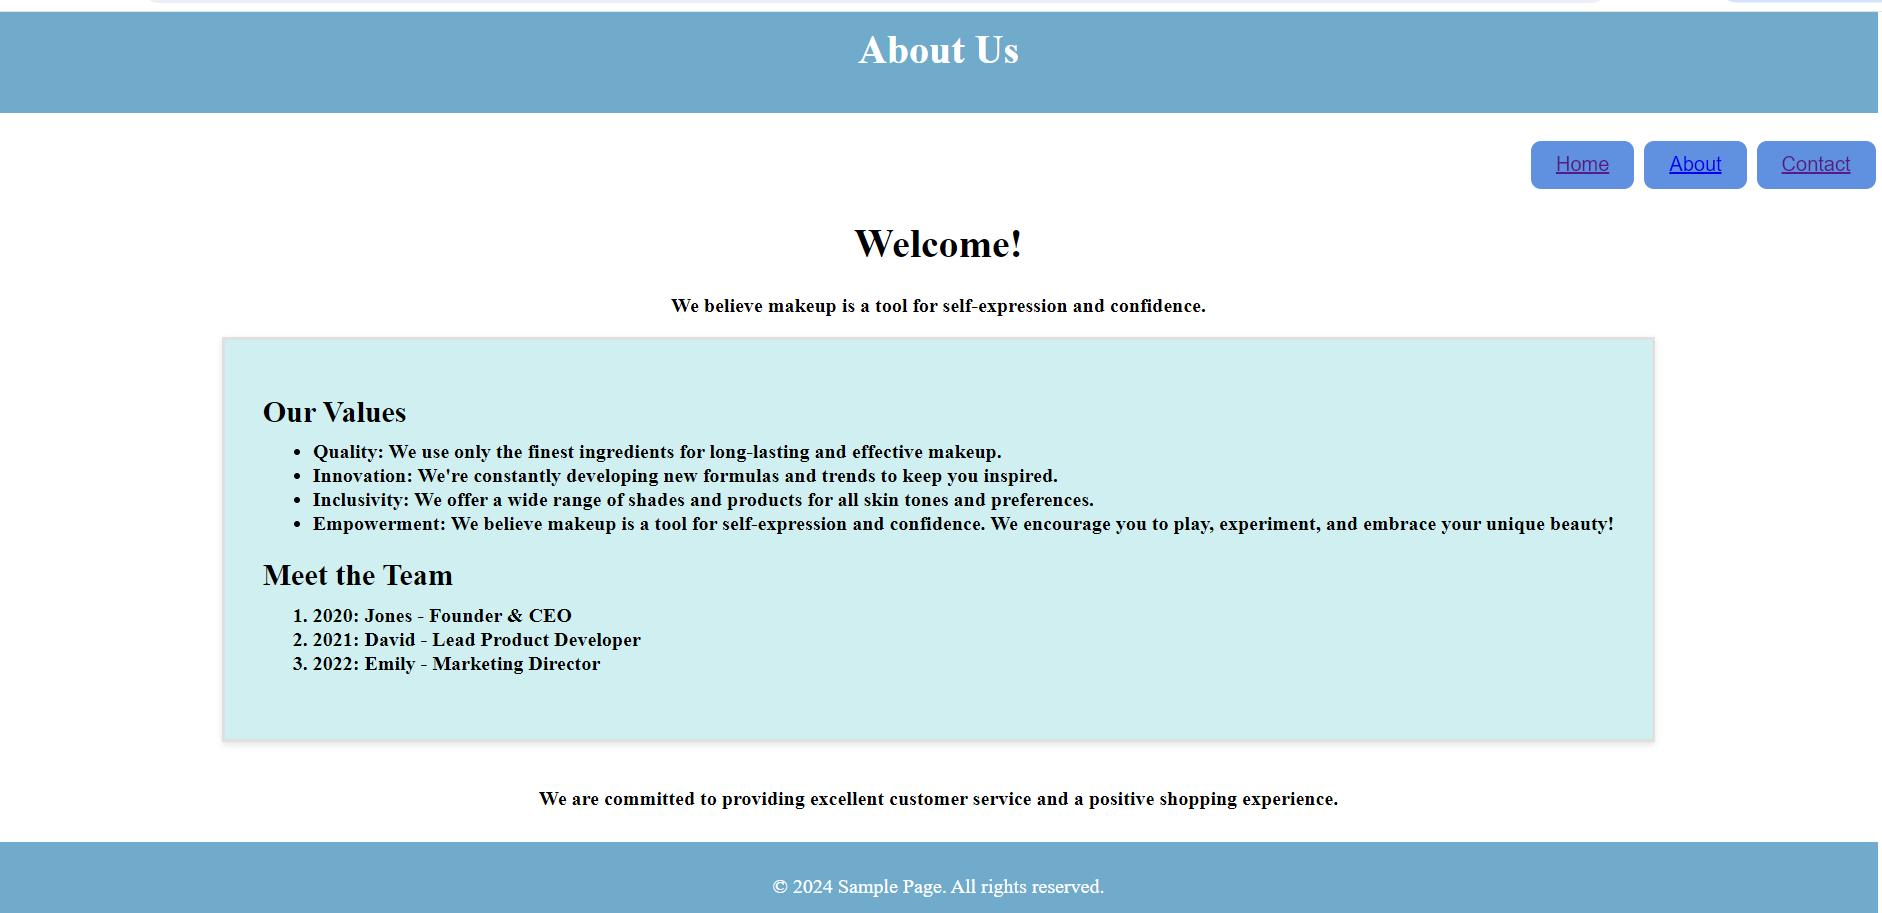
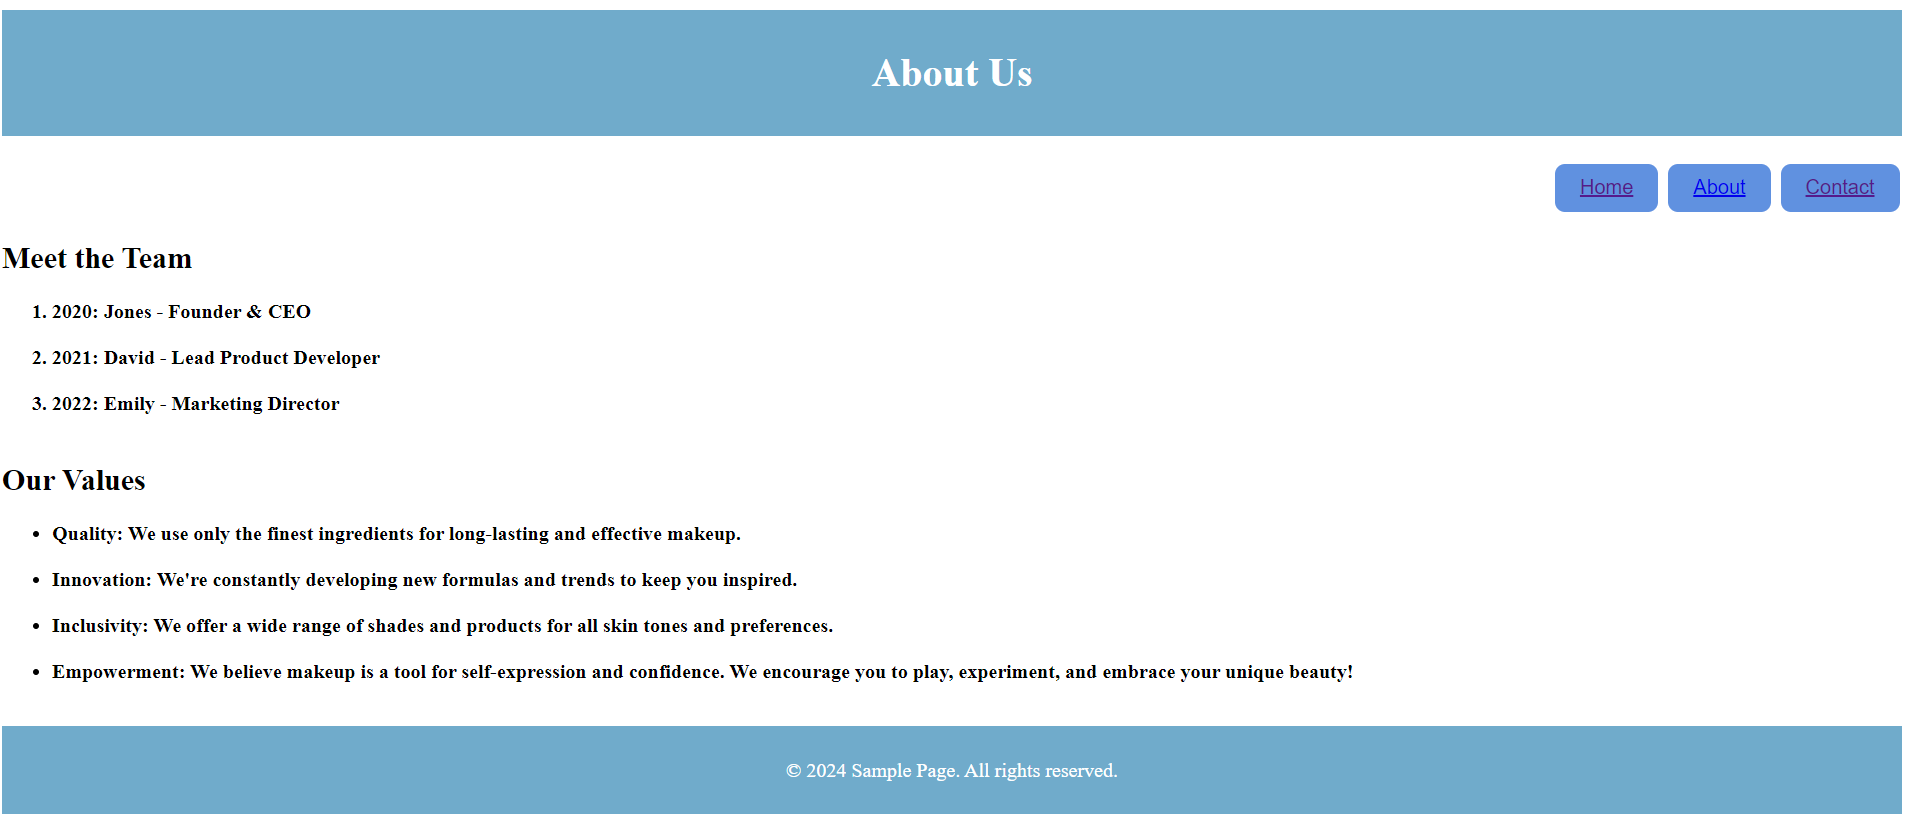
Add files via upload

diff --git a/Part A/about.html b/Part A/about.html
@@ -10,13 +10,10 @@
              margin-bottom: 10px;
              font-style: Arial, sans-serif;
              font-weight: bold;
-             text-align: center; 
+             text-align:justify; 
+             
         }
-        .main a{
-              text-align: justify; 
-              margin: 0 auto; 
-              width: 70%; 
-        }
+     
         header, footer  {
             background-color: #70abcb;
             color: #fff;
@@ -47,34 +44,7 @@
             text-align: right;
         }
 
-        .products {
-          display: flex;
-          flex-wrap: wrap;
-          gap: 20px;
-          justify-content: center;
-     
-          }
-
-         .product {
-          background-color: #cfeff1;
-          padding: 30px;
-          border-radius: 1px;
-           box-shadow: 0 2px 5px rgba(0, 0, 0, 0.1);
-           border: 3px solid #e0e0e0; /* Add a thin border */
-           line-height: 0.6;
-           font-weight: bold;
-           text-align: justify;
-          
-         }
-
-         .product h1 {
-          margin-bottom: 10px;
-         font-size: 18px; /* Adjust font size for product titles */
-          font-weight:bolder;
-          font-family:Arial, Helvetica, sans-serif;
-        }
-
-
+    
     </style>
 </head>
 <body>
@@ -91,27 +61,21 @@
     </nav>
 
     <main>
-        <p><h1>Welcome!</h1></p> 
-        <p>  We believe makeup is a tool for self-expression and confidence.</p>
-
-            <section class="products">
-              <div class="product">
-                <h2>Our Values</h2>
-                <ul>
-                    <li>Quality: We use only the finest ingredients for long-lasting and effective makeup.</li><br>
-                    <li>Innovation: We're constantly developing new formulas and trends to keep you inspired.</li><br>
-                    <li>Inclusivity: We offer a wide range of shades and products for all skin tones and preferences.</li><br>
-                    <li>Empowerment: We believe makeup is a tool for self-expression and confidence. We encourage you to play, experiment, and embrace your unique beauty!</li><br>
-                  </ul>
-               
               <h2>Meet the Team</h2>
               <ol>
                 <li>2020: Jones - Founder & CEO</li><br>
                 <li>2021: David - Lead Product Developer</li><br>
                 <li>2022: Emily - Marketing Director</li> <br>
-              </ol>   
-        </div>
-              <p>We are committed to providing excellent customer service and a positive shopping experience.</p>
+              </ol> 
+              
+              <h2>Our Values</h2>
+              <ul>
+                  <li>Quality: We use only the finest ingredients for long-lasting and effective makeup.</li><br>
+                  <li>Innovation: We're constantly developing new formulas and trends to keep you inspired.</li><br>
+                  <li>Inclusivity: We offer a wide range of shades and products for all skin tones and preferences.</li><br>
+                  <li>Empowerment: We believe makeup is a tool for self-expression and confidence. We encourage you to play, experiment, and embrace your unique beauty!</li><br>
+                </ul>
+            </div>
        </section>
        </main>
     <footer>

diff --git a/Part A/contact.html b/Part A/contact.html
@@ -61,16 +61,6 @@
     <main>
         <br><br>
         <h2><b>This is the Contact Us page. Feel free to get in touch!.</br></h2>
-        <br><br>
-        <form action="process.php" method="POST">
-            <br>Name
-            <input type="text" name="xyz">
-            <br>
-            <br>password
-            <input type="password" name="123">
-            <br><br>
-            <button type="submit">Login</button>
-          </form>
           <br><br>
           <h2>You can contact us at anytime.</h2>
           <br><br><br>
